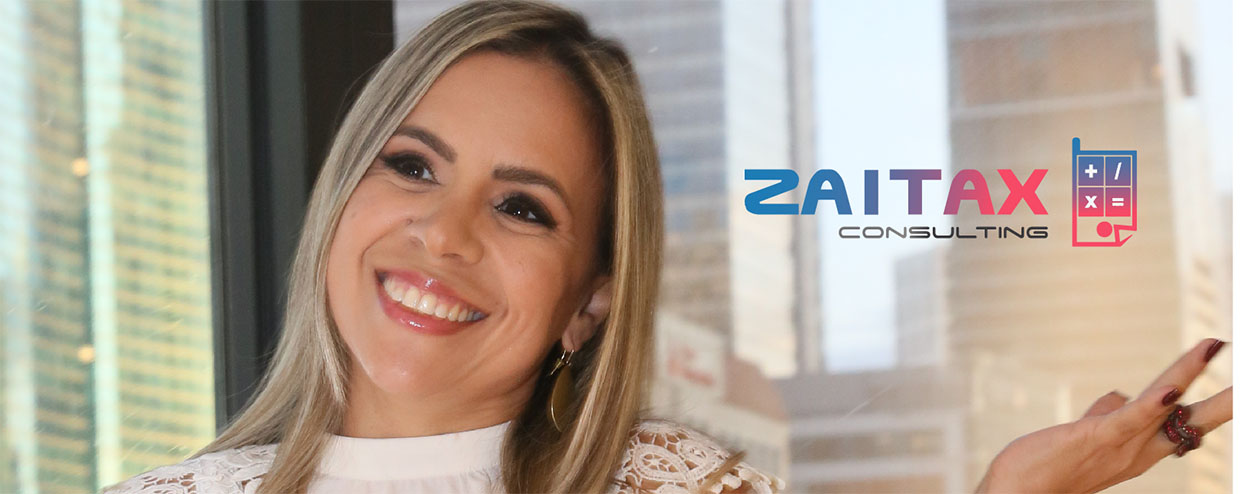
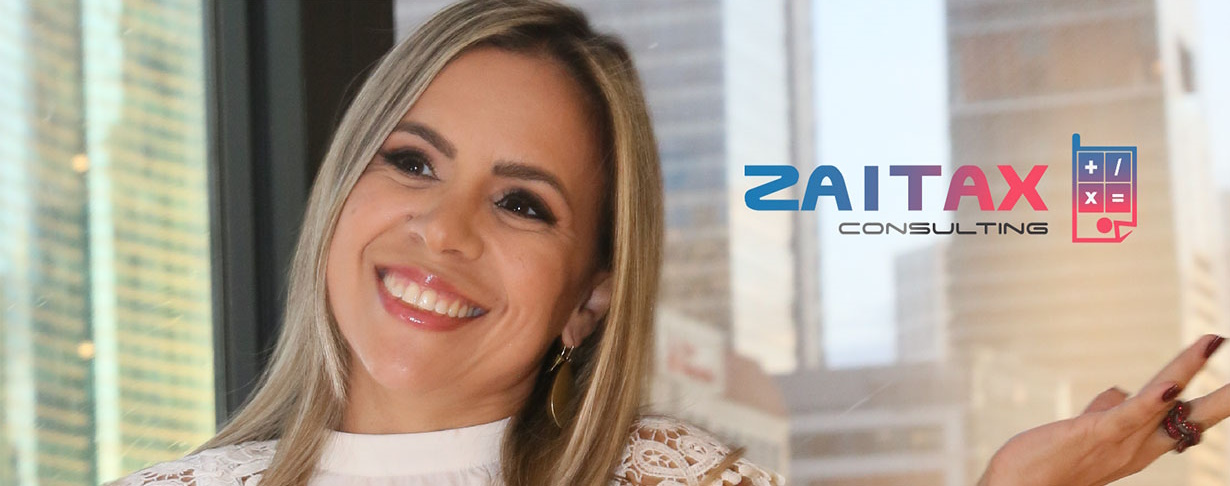
ajustes carrusel y botones

diff --git a/zaitax_home/css/style.css b/zaitax_home/css/style.css
@@ -209,7 +209,7 @@ h1 a {
 	width: 60px;
 	position: absolute;
 	top: 20px;
-	left: 20px;
+	right: 20px;
 	display: flex;
 	align-items: center;
 	justify-content: center;
@@ -243,11 +243,11 @@ h1 a {
 	width:100%;
 	position:relative;
 	overflow:hidden;
-	padding-top:49px;
 	background:url(../images/slider-bg-tail2.gif) center top repeat-x #efefef;
 }
 #page1 .slider-wrapper {
 	background:url(../images/slider-bg-tail.gif) center top repeat-x #efefef;
+	background-size: auto 10px;
 	padding:0;
 }
 .slider {
@@ -258,7 +258,7 @@ h1 a {
 	left:50%;
 }
 #page1 .slider {
-	height:494px;
+	height:490px;
 }
 #page2 .slider {
 	background:url(../images/slider-img1.jpg) 0 -171px no-repeat;

diff --git a/zaitax_home/footer.html b/zaitax_home/footer.html
@@ -21,7 +21,7 @@
       </article>
       <article class="grid_3">
         <div class="indent-left2">
-          <h5>Navigation</h5>
+          <h5 class="lang" key="navigation">Navigation</h5>
           <ul class="list-1">
             <li><a href="index.html" class="lang" key="home">Home</a></li>
             <li>
@@ -38,7 +38,7 @@
         </div>
       </article>
       <article class="grid_3">
-        <h5>Contact</h5>
+        <h5 class="lang" key="contact">Contact</h5>
         <dl class="contact">
           <dt>1555 Bonaventure Blvd Weston, Florida</dt>
           <dd>
